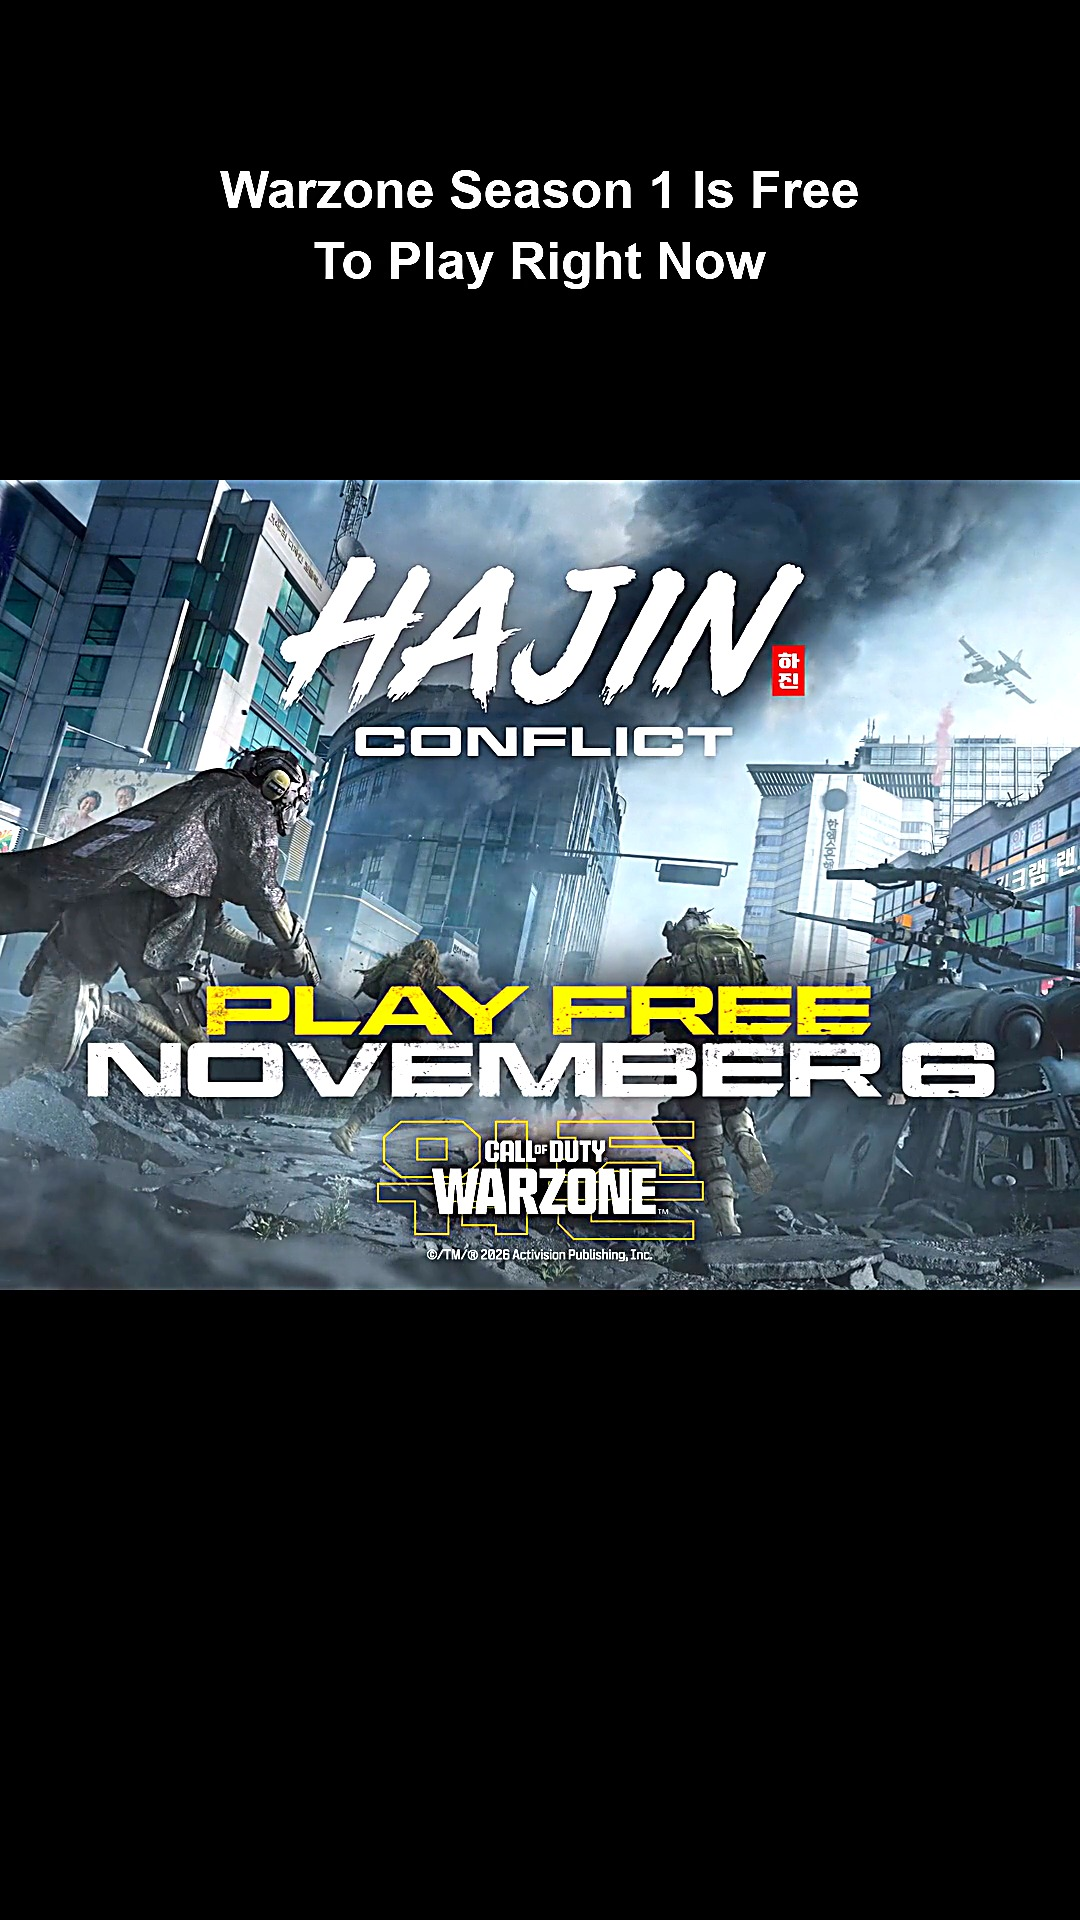
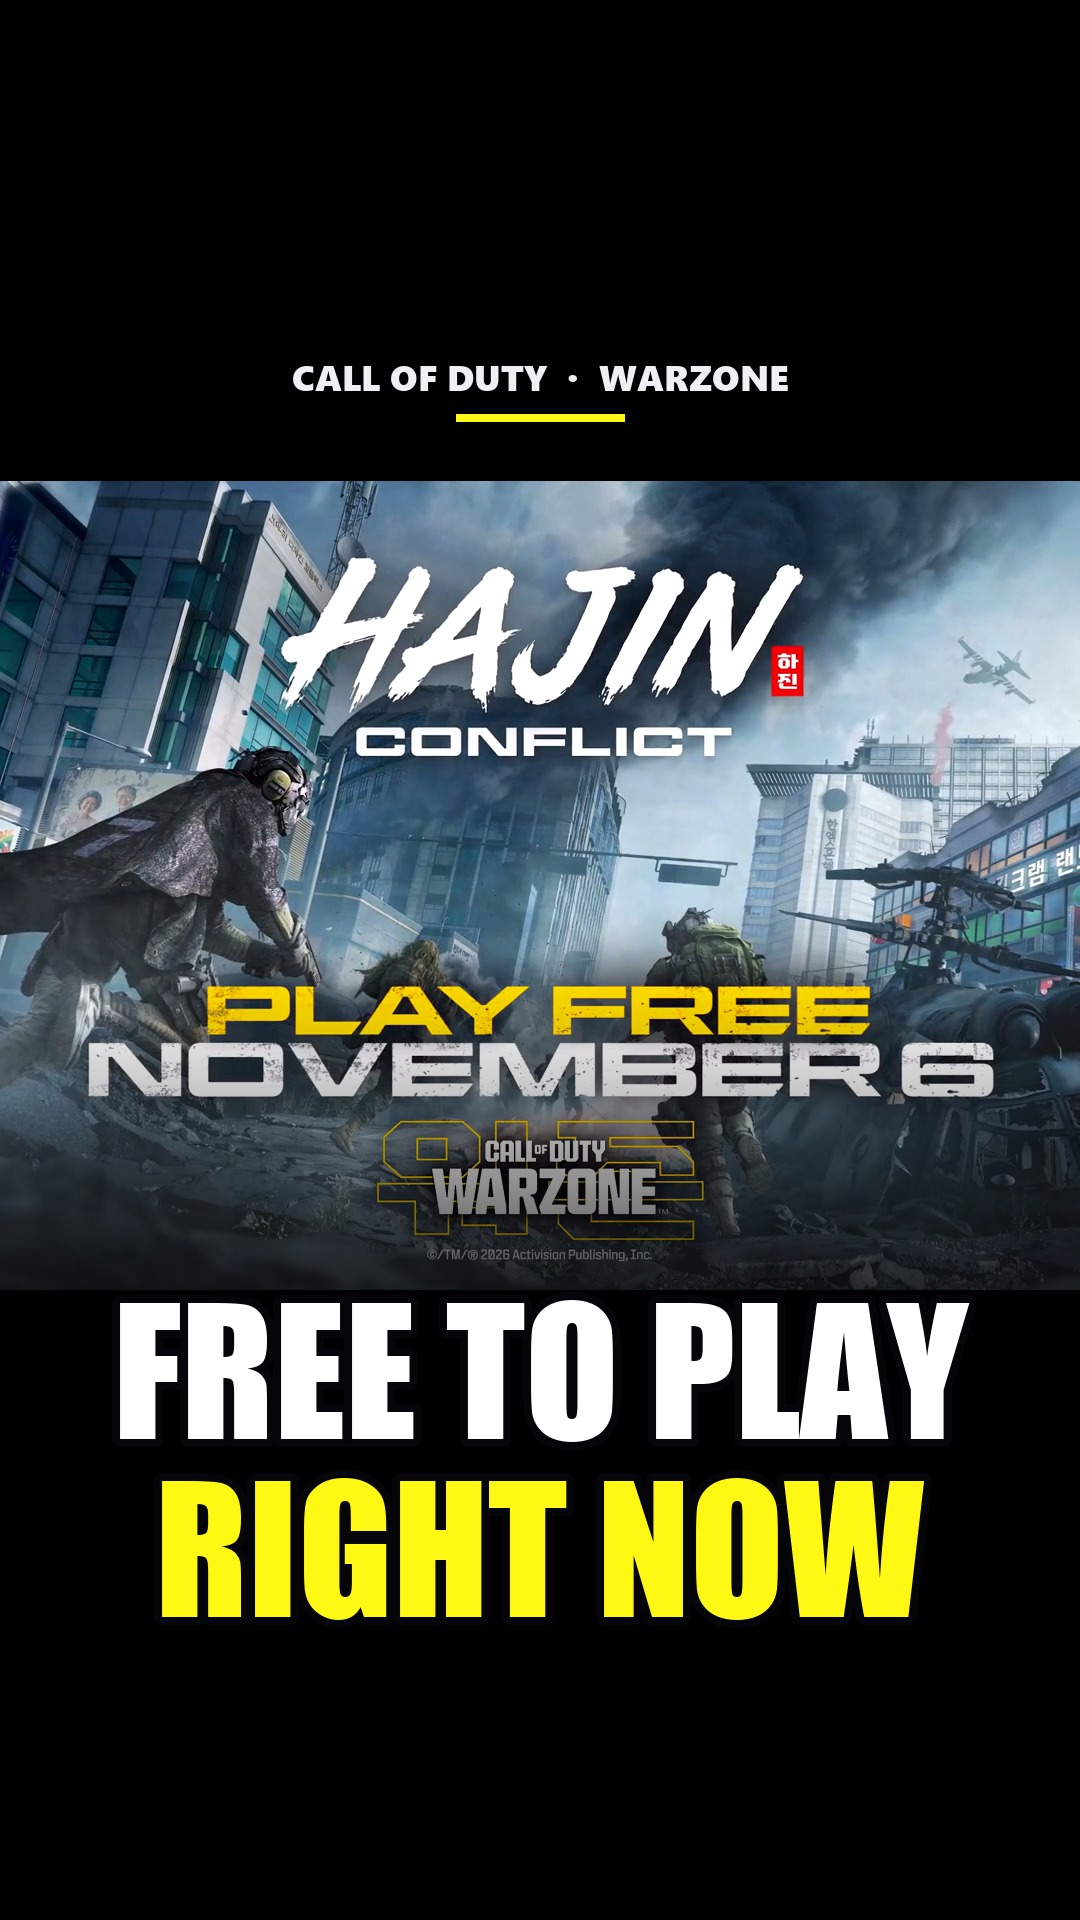
feat(publish): design the five Warzone covers in the COD house style
The committed wz covers were raw letterboxed frame grabs still carrying the
burned hook card, not designed covers. make_wz_covers.py grabs the same
hand-picked frame from each staged clip, erases the top-bar card, and sets a
kicker plus a two-line Impact headline into the black bars (inside the 4:5
grid crop), accent measured off the wz5 key art's PLAY FREE yellow.

diff --git a/tools/make_wz_covers.py b/tools/make_wz_covers.py
@@ -1,0 +1,154 @@
+"""Render designed 1080x1920 Instagram covers for the five Warzone reels.
+
+Usage: python tools/make_wz_covers.py [wz1 wz2 ...]
+
+The staged clips are letterboxed (picture band ~y480-1290) and carry a burned
+hook card in the top bar for their whole runtime, so a raw frame grab is not a
+cover. This grabs the hand-picked frame from the committed clip, erases the
+top-bar card, and designs into the two black bars: a kicker up top, a big
+two-line Impact headline in the bottom bar, both inside Instagram's 4:5
+profile-grid crop (y285-1635). Accent is the yellow measured off the wz5 key
+art's "PLAY FREE" / Warzone logo (255, 248, 21), not a picked colour.
+
+Run with the interpreter that has Pillow: backend/.venv/Scripts/python.exe.
+"""
+
+import os
+import subprocess
+import sys
+import tempfile
+
+from PIL import Image, ImageDraw, ImageEnhance, ImageFont
+
+ROOT = os.path.dirname(os.path.dirname(os.path.abspath(__file__)))
+CLIPS = os.path.join(ROOT, "clips-highlight")
+OUT = os.path.join(ROOT, "covers-highlight")
+FONT = "C:/Windows/Fonts/impact.ttf"
+KFONT = "C:/Windows/Fonts/seguibl.ttf"
+
+W, H = 1080, 1920
+WHITE = (255, 255, 255)
+ACCENT = (255, 248, 21)  # measured off the wz5 key-art PLAY FREE / logo yellow
+KICKER = "CALL OF DUTY  ·  WARZONE"
+MAX_W = 950
+TEXT_BOTTOM = 1610  # inside the 4:5 grid crop (keeps y285-1635)
+LINE_GAP = 20
+# fixed by make_wz.py: 1080x810 picture at y=480 on a 1080x1920 canvas
+BAND_TOP, BAND_BOT = 480, 1290
+
+# t = the hand-picked frame each cover already showed, matched back to the clip
+COVERS = {
+    "wz1": dict(t=5.125, lines=[("STRAIGHT INTO", WHITE), ("HAJIN", ACCENT)]),
+    "wz2": dict(t=6.875, lines=[("RAIN FIREFIGHT", WHITE), ("IN SEASON 1", ACCENT)]),
+    "wz3": dict(t=10.125, lines=[("JUMPED FROM A", WHITE), ("BURNING TOWER", ACCENT)]),
+    "wz4": dict(t=9.875, lines=[("LONG-RANGE", WHITE), ("SHOTS LAND DIFFERENT", ACCENT)]),
+    "wz5": dict(t=1.875, lines=[("FREE TO PLAY", WHITE), ("RIGHT NOW", ACCENT)]),
+}
+
+
+def grab(name, t):
+    fd, path = tempfile.mkstemp(suffix=".png")
+    os.close(fd)
+    subprocess.run(
+        ["ffmpeg", "-y", "-loglevel", "error", "-ss", str(t),
+         "-i", os.path.join(CLIPS, f"{name}.mp4"), "-frames:v", "1", path],
+        check=True,
+    )
+    img = Image.open(path).convert("RGB")
+    os.unlink(path)
+    if img.size != (W, H):
+        img = img.resize((W, H), Image.LANCZOS)
+    return img
+
+
+def fit_size(draw, texts, max_size=172, min_size=88):
+    """One common size so both headline lines match."""
+    size = max_size
+    while size > min_size:
+        f = ImageFont.truetype(FONT, size)
+        if all(draw.textlength(t, font=f) <= MAX_W for t in texts):
+            return size
+        size -= 2
+    return min_size
+
+
+def line_sprite(text, font, color):
+    pad, stroke = 46, 8
+    x0, y0, _, y1 = font.getbbox(text)
+    w = int(font.getlength(text)) + pad * 2
+    h = (y1 - y0) + pad * 2
+    sprite = Image.new("RGBA", (w, h), (0, 0, 0, 0))
+    d = ImageDraw.Draw(sprite)
+    ox, oy = pad - x0, pad - y0
+    d.text((ox + 5, oy + 10), text, font=font, stroke_width=stroke,
+           fill=(0, 0, 0, 220), stroke_fill=(0, 0, 0, 220))
+    d.text((ox, oy), text, font=font, stroke_width=stroke,
+           fill=color + (255,), stroke_fill=(6, 6, 10, 255))
+    return sprite
+
+
+def render(name, cfg):
+    img = grab(name, cfg["t"])
+    top, bot = BAND_TOP, BAND_BOT
+
+    img = ImageEnhance.Color(img).enhance(1.2)
+    img = ImageEnhance.Contrast(img).enhance(1.08)
+    luma = sum(img.crop((0, top, W, bot)).convert("L").resize((1, 1)).getdata())
+    if luma < 95:
+        img = ImageEnhance.Brightness(img).enhance(1.13)
+
+    # erase the burned hook card: the whole top bar is black anyway
+    draw = ImageDraw.Draw(img)
+    draw.rectangle([0, 0, W, top], fill=(0, 0, 0))
+
+    # gentle scrim over the bottom of the picture so the headline's top line reads
+    grad = Image.new("L", (1, H), 0)
+    gp = grad.load()
+    for y in range(H):
+        if y < bot - 320:
+            a = 0
+        elif y < bot:
+            a = int(190 * ((y - (bot - 320)) / 320) ** 1.2)
+        else:
+            a = 0  # bottom bar is already black
+        gp[0, y] = a
+    img.paste(Image.new("RGB", (W, H), (8, 8, 10)), (0, 0), grad.resize((W, H)))
+    draw = ImageDraw.Draw(img)
+
+    # kicker in the top bar, grid-crop safe
+    kf = ImageFont.truetype(KFONT, 36)
+    kw = draw.textlength(KICKER, font=kf)
+    ky = 352
+    draw.text(((W - kw) / 2 + 3, ky + 4), KICKER, font=kf, fill=(0, 0, 0))
+    draw.text(((W - kw) / 2, ky), KICKER, font=kf, fill=(240, 240, 244))
+    draw.rectangle([W / 2 - 84, ky + 62, W / 2 + 84, ky + 69], fill=ACCENT)
+
+    texts = [t for t, _ in cfg["lines"]]
+    size = fit_size(draw, texts)
+    font = ImageFont.truetype(FONT, size)
+    heights = [(lambda b: b[3] - b[1])(draw.textbbox((0, 0), t, font=font, stroke_width=8))
+               for t in texts]
+    block = sum(heights) + LINE_GAP * (len(texts) - 1)
+    y = TEXT_BOTTOM - block
+    for (text, color), h in zip(cfg["lines"], heights):
+        sprite = line_sprite(text, font, color)
+        img.paste(sprite, ((W - sprite.width) // 2, y - 20), sprite)
+        y += h + LINE_GAP
+
+    out = os.path.join(OUT, f"{name}.jpg")
+    img.save(out, "JPEG", quality=92, optimize=True)
+    return out
+
+
+def main():
+    names = sys.argv[1:] or list(COVERS)
+    unknown = [n for n in names if n not in COVERS]
+    if unknown:
+        sys.exit(f"unknown cover(s): {', '.join(unknown)}")
+    for name in names:
+        out = render(name, COVERS[name])
+        print(f"{name}: {os.path.getsize(out) // 1024} KB -> {out}")
+
+
+if __name__ == "__main__":
+    main()
